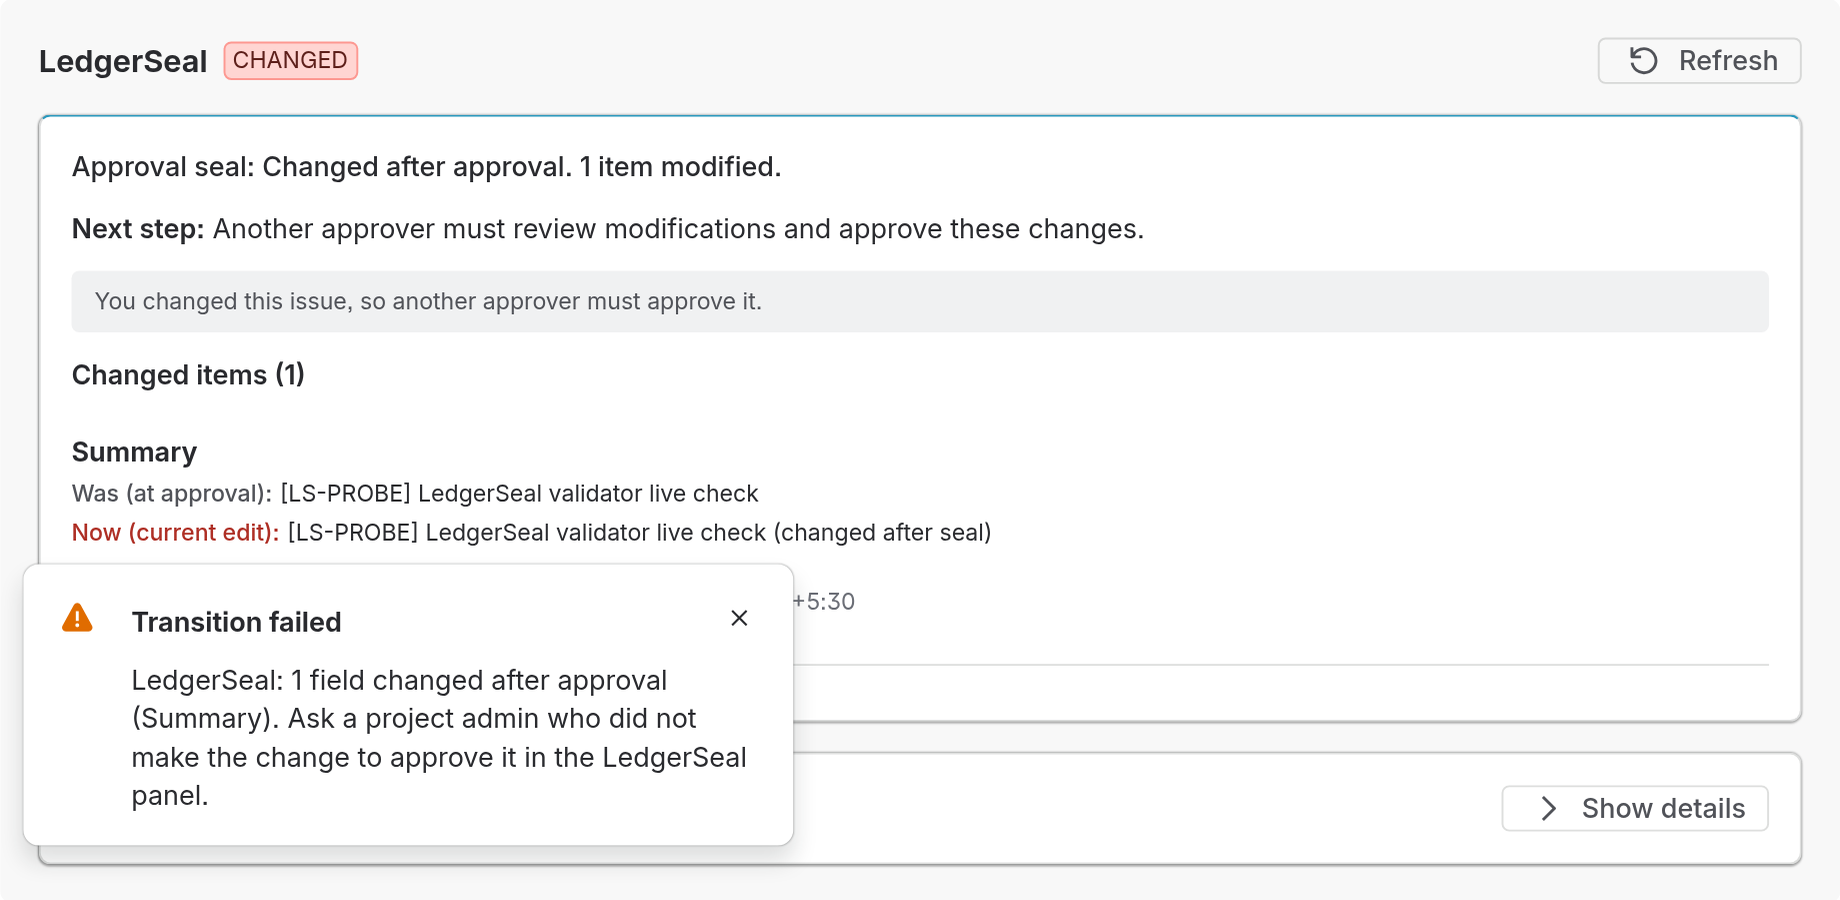
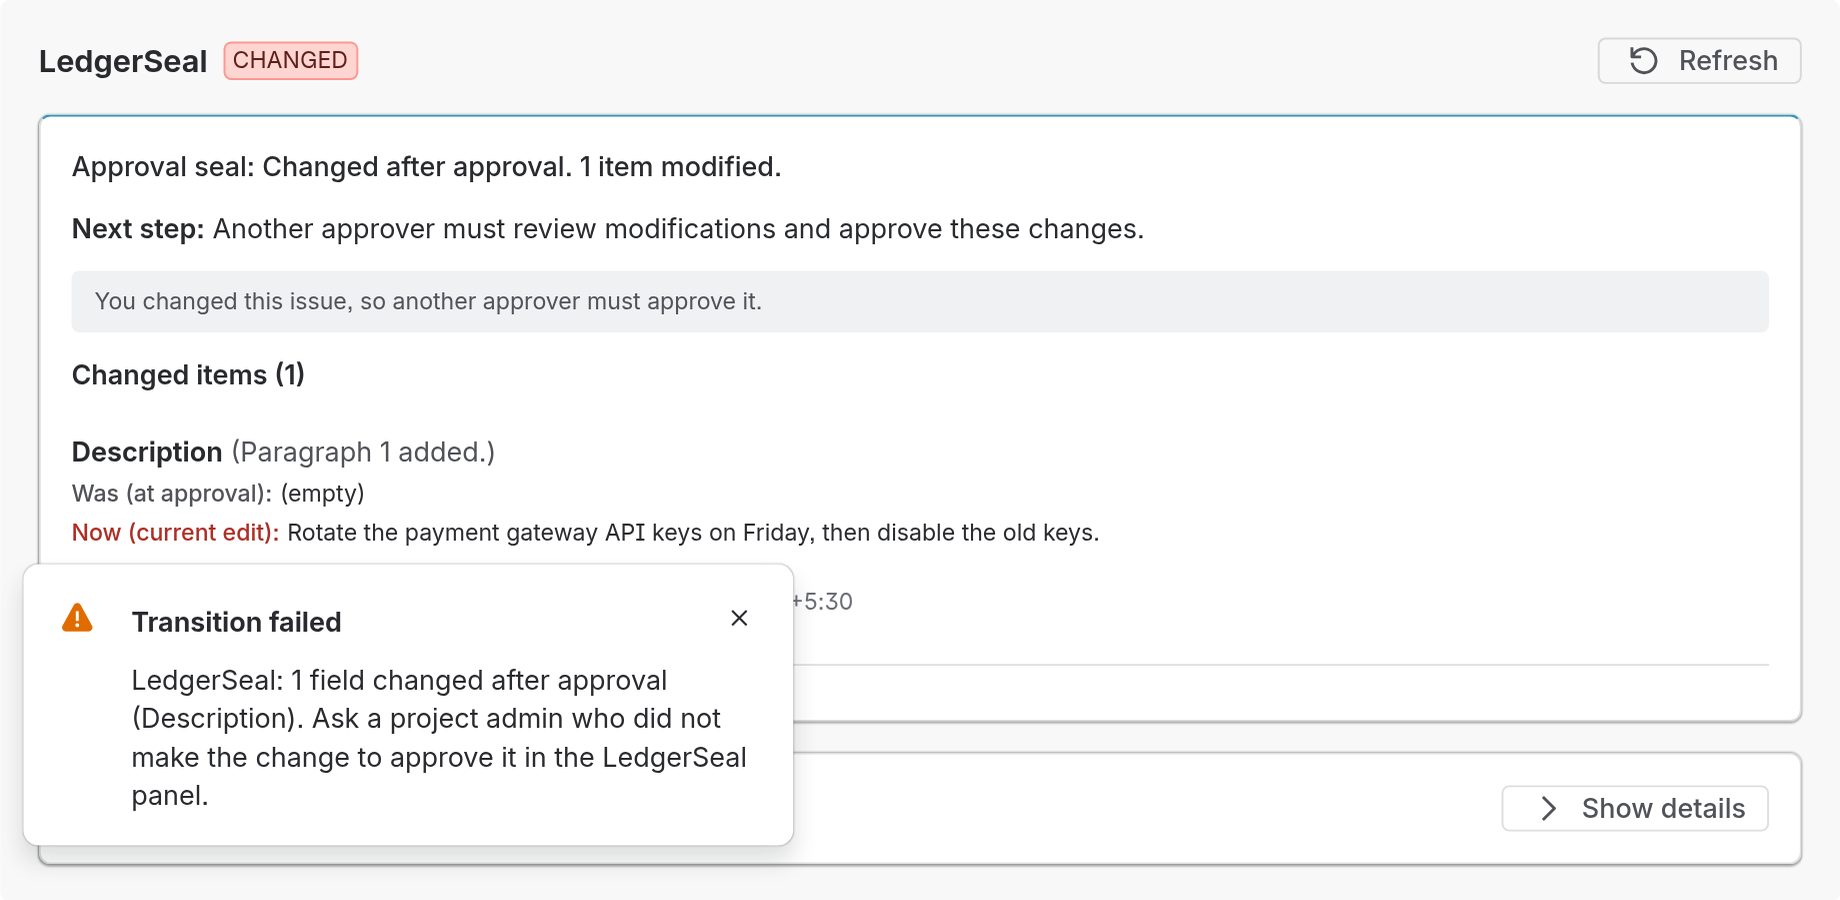
docs(ledgerseal): screenshot 03 without a test title; follow-up log
Screenshot 03 shows the Require Valid LedgerSeal validator blocking
LSP-5 on LedgerSeal 4.3.0, whose only change after its seal is a
description, so no test title shows. The live script takes the issue
key. The progress log records the merge review follow-ups, their proof,
the 4.3.0 live checks and live changes, and the site changes for
11.50, the transition comment note, the privacy text and verifier 1.2.0.

Refs: L-4, L-5, L-6 (LedgerSeal merge review)

Changed region(s): [[0.031, 0.4978, 0.5886, 0.6222], [0.062, 0.7778, 0.4027, 0.8089], [0.4337, 0.6533, 0.4647, 0.6844]]

diff --git a/apps/ledgerseal/test/live/shot_blocked.py b/apps/ledgerseal/test/live/shot_blocked.py
@@ -1,20 +1,23 @@
-"""Screenshot 03: the Require Valid LedgerSeal validator blocks LSP-1's move to Done (the status does not change).
+"""Screenshot 03: the Require Valid LedgerSeal validator blocks a changed issue's move to Done (the status does not
+change). Usage: python3 shot_blocked.py KEY (default LSP-5, whose only change is a description, so no test title shows).
 Crop: the LedgerSeal panel area from its own header, with Jira's "Transition failed" message, 1840 x 900 px.
 LSP is the project where the validator is on a transition; PAY has no LedgerSeal validator.
 Copyright (c) 2026 Asymm Systems. All rights reserved.
 @author Fahim Farook
 """
 import pathlib
+import sys
 from PIL import Image
 from playwright.sync_api import sync_playwright
 from ls_live import open_browser, SITE, rest
 from ls_panel import open_issue, panel_box
 
+KEY = sys.argv[1] if len(sys.argv) > 1 else 'LSP-5'
 ASSETS = pathlib.Path(__file__).resolve().parents[4] / 'docs' / 'marketplace' / 'assets' / 'ledgerseal'
 with sync_playwright() as p:
     b, ctx = open_browser(p, 1600, 1000, 1.0)
     pg = ctx.new_page()
-    open_issue(pg, 'LSP-1')
+    open_issue(pg, KEY)
     box = panel_box(pg)
     w = box['width']
     h = w * 900 / 1840
@@ -22,8 +25,9 @@ with sync_playwright() as p:
     # Viewport so the flag (bottom-left of the window) lands inside the crop under the panel header
     b, ctx = open_browser(p, 1600, int(box['y'] + h + 20), 1840 / w)
     pg = ctx.new_page()
-    open_issue(pg, 'LSP-1')
-    pg.locator('button').filter(has_text='In Progress').first.click()
+    open_issue(pg, KEY)
+    status = rest(pg, 'GET', f'/rest/api/3/issue/{KEY}?fields=status')['json']['fields']['status']['name']
+    pg.locator('button').filter(has_text=status).first.click()
     pg.wait_for_timeout(2500)
     pg.get_by_role('option', name='Done').first.click() if pg.get_by_role('option', name='Done').count() else pg.get_by_text('Done', exact=True).last.click()
     pg.get_by_text('Transition failed').first.wait_for(timeout=60000)
@@ -35,5 +39,5 @@ with sync_playwright() as p:
     im = Image.open(path)
     if im.size != (1840, 900):
         im.resize((1840, 900), Image.LANCZOS).save(path)
-    print('wrote', path.name, Image.open(path).size, 'status', rest(pg, 'GET', '/rest/api/3/issue/LSP-1?fields=status')['json']['fields']['status']['name'])
+    print('wrote', path.name, Image.open(path).size, 'status', rest(pg, 'GET', f'/rest/api/3/issue/{KEY}?fields=status')['json']['fields']['status']['name'])
     b.close()

diff --git a/apps/ledgerseal/test/live/describe_lsp5.py b/apps/ledgerseal/test/live/describe_lsp5.py
@@ -1,0 +1,14 @@
+"""Live write for screenshot 03: gives the probe issue LSP-5 a description after its seal. Prints the old value.
+Copyright (c) 2026 Asymm Systems. All rights reserved.
+@author Fahim Farook
+"""
+from playwright.sync_api import sync_playwright
+from ls_live import open_browser, rest, SITE
+with sync_playwright() as p:
+    b, ctx = open_browser(p)
+    pg = ctx.new_page()
+    pg.goto(SITE + '/jira/your-work', wait_until='domcontentloaded', timeout=120000)
+    print('old description:', rest(pg, 'GET', '/rest/api/3/issue/LSP-5?fields=description')['json']['fields']['description'])
+    doc = {'type': 'doc', 'version': 1, 'content': [{'type': 'paragraph', 'content': [{'type': 'text', 'text': 'Rotate the payment gateway API keys on Friday, then disable the old keys.'}]}]}
+    print('put', rest(pg, 'PUT', '/rest/api/3/issue/LSP-5', {'fields': {'description': doc}})['status'])
+    b.close()

diff --git a/docs/sdlc/ledgerseal-marketplace-fixes-2026-11/progress-log.md b/docs/sdlc/ledgerseal-marketplace-fixes-2026-11/progress-log.md
@@ -218,3 +218,64 @@ Run in `apps/ledgerseal`, on the owner's own machine. Never paste the private ke
 ## Final gate (branch head)
 
 `npx tsc --noEmit` 0 errors; `npm test`: 46 suites, 484 tests passed; coverage statements 97.88%, branches 94.26%, functions 96.61%, lines 98.67% (thresholds 90%); `npm run build` exit 0; `npm audit --omit=dev --audit-level=high` exit 0; `forge lint` "No issues found". Development version 4.2.0.
+
+## Merge review follow-ups (branch `feature/ledgerseal-review-followups`, from `origin/master` `42e79fa`)
+
+The review is `docs/sdlc/merge-reviews-2026-11/ledgerseal-merge-review.md` (probes in `/home/fahimfarookme/.cache/jira-suite-merge-review/ledgerseal/probes/`).
+
+### M-1, M-2, L-2
+
+- **Commit:** `f24ab2d`.
+- **M-1:** a conversion journal means "not finished" for a seal or revoke as for the weekly job (`convertIfNeeded` checks `hasConversionJournal`). A record already committed (`parties: TOKEN`) with a journal is never written again from it: the conversion only deletes superseded snapshots and the journal (`finishCleanup`), so a revoke or seal made after the stop stays.
+- **M-2:** `PartyRepository.register` adds an account not yet in the map only when Jira reports it active (`JiraClient.isActiveUser`: `GET /rest/api/3/user`, `active`; 404 counts as not active; unknown is not added now). Used for change authors in incidents and for actors found by a conversion. Seal and revoke callers are signed in.
+- **L-2:** `deleteIssueRecords` deletes `ls3:convert:{issueId}`.
+- **Proof:** `test/review-followups.test.ts` (7), built from probes R1 and R2 without master's code (`test/support/old-record.ts`). With the M-1 change reverted the two M-1 tests fail; with the M-2 filter removed the two M-2 incident tests fail; with both in place all pass.
+
+### L-1, L-7. Open verifier 1.2.0
+
+- **Commits:** public repository `67776e4` (pull request 2, CI green on Node 18.x, 20.x, 22.x, run 42196616081; `main` fast-forwarded); monorepo `6ac7045`.
+- **What changed:** a fifth check: the attestation's status is the state of the newest entry that is not `LS_REDACTED`. Apache-2.0 header on `.github/workflows/test.yml`. Version 1.2.0; 12 tests. `tools/verifier` identical to the repository (`diff -r` empty). The app's evidence steps name the check; `test/evidence.test.ts` checks a changed and a revoked seal pass it.
+- **Release:** https://github.com/asymmsystems/ledgerseal-verifier/releases/tag/v1.2.0, `SHA256SUMS`:
+  - `e3d4d9c006b488d281caf92484172ed0c14746ffd190aae78bea4ad4ee574154  verify-evidence.mjs`
+  - `5cc3656b4e87443b9850f49bc864650b99ce7af3fd2f6f2896dd70c793865457  vectors.json`
+  - `272774088714fd2e158415976b849668772530986fcfc2aa2668c6e19c9cd271  LICENSE`
+  - `c7618b74ecca80992ec2c7f1e6a37980cc4fb07da417ab36dfad6ee3ba72ab34  ls-dev-2026-11.pub.pem`
+
+### M-4 (owner decision, option A), L-3, L-5
+
+- **Commit:** `7cbda07`.
+- **M-4:** listing, reviewer notes and `site/apps/ledgerseal/compliance-mapping.md` say 21 CFR 11.50 is partly met: "Each seal records the date, time and meaning of the signature. The signer's name is shown from their Atlassian account while it exists; after the account is closed, it is shown as a deleted user, so a printed name is not kept in the record." The panel's label for a closed account is now "a deleted user", as the wording says. `test/listing.test.ts` fails if 11.50 is claimed without "partly met".
+- **L-3:** reviewer notes section 5 numbered 1, 2, 3 (tested).
+- **L-5:** `site/apps/ledgerseal/admin-guide.md` says a comment typed on the screen of a gated transition blocks it as "Comment added".
+
+### L-4. Screenshot 03
+
+- 03 retaken on LSP-5 (my probe issue): its only change after the seal is a description, so the panel shows no test title. Script `apps/ledgerseal/test/live/shot_blocked.py LSP-5`.
+
+### Deploy and live checks (development 4.3.0)
+
+| Check | Result |
+|---|---|
+| Evidence of PAY-10 (sealed), PAY-13 (changed), LSP-3 (converted, resealed) with verifier 1.2.0 | 5 of 5 PASS each; status check SEAL_VALID, SEAL_BROKEN, SEAL_VALID; properties schema 3, signed, no account id |
+| Gate on LSP-5 after its description change | "Transition failed: LedgerSeal: 1 field changed after approval (Description)..."; status stays Backlog; screenshot 03 retaken (1840 x 900) |
+| M-1 and M-2 live | not run live: M-1 needs an invocation stopped between two writes, M-2 a closed Atlassian account; both are proven by the tests above |
+
+### Live changes (follow-ups)
+
+| When (UTC) | Where | Change | State now |
+|---|---|---|---|
+| 2026-11-06 | Forge development | deploy 4.3.0 | 4.3.0 |
+| 2026-11-06 | LSP-5 (my probe issue) | description set to "Rotate the payment gateway API keys on Friday, then disable the old keys." (was empty); gated move to Done tried (blocked) | changed after its seal; still to be deleted by the owner (403 for this account) |
+
+### Site changes needed (follow-ups; add to the list above)
+
+16. `product/jira-governance/compliance.html`, Part 11 table, 11.50 row, third cell.
+    - Old: "Every seal records and displays the approver, the time, and the meaning chosen by the approver (Approved, Reviewed or Verified)."
+    - New: "Partly met. Each seal records the date, time and meaning of the signature. The signer's name is shown from their Atlassian account while it exists; after the account is closed, it is shown as a deleted user, so a printed name is not kept in the record."
+17. `product/jira-governance/user-guide/ledgerseal.html`, workflow validator section, after "If LedgerSeal cannot check the issue, the validator blocks the transition (it fails closed).": add "If the gated transition has a screen with a comment box, a comment typed there is new content on a sealed issue, so the validator blocks the transition with \"Comment added\". Add the comment after the transition, or ask another approver to approve it first." (L-5)
+18. `privacy.html`, the LedgerSeal section of item 15 (L-6): replace "seal records, which name people by a pseudonymous token (a keyed hash of the Atlassian account id under a key only the app can read)" with "seal records, which name every person they mention (signers, people who changed the issue, and people named in the sealed content such as the assignee, comment authors and mentions) by a pseudonymous token: a keyed hash of the Atlassian account id under a key only the app can read. A pseudonymous token is still personal data: the app can link it to the account id that Jira shows on the issue." and replace "the records name no one" with "the app no longer holds the account id, and the panel shows a deleted user".
+19. `product/jira-governance/user-guide/open-verifier.html`: the verifier makes five checks (adds "attestation status matches the history"); link release v1.2.0 instead of v1.1.0.
+
+### Final gate (follow-up branch head)
+
+`npx tsc --noEmit` 0 errors; `npm test`: 47 suites, 497 tests passed; coverage statements 97.86%, branches 94.33%, functions 96.69%, lines 98.63%; `npm run build` exit 0; `npm audit --omit=dev --audit-level=high` exit 0; `forge lint` "No issues found"; `tools/verifier` 12 of 12. Development version 4.3.0.
